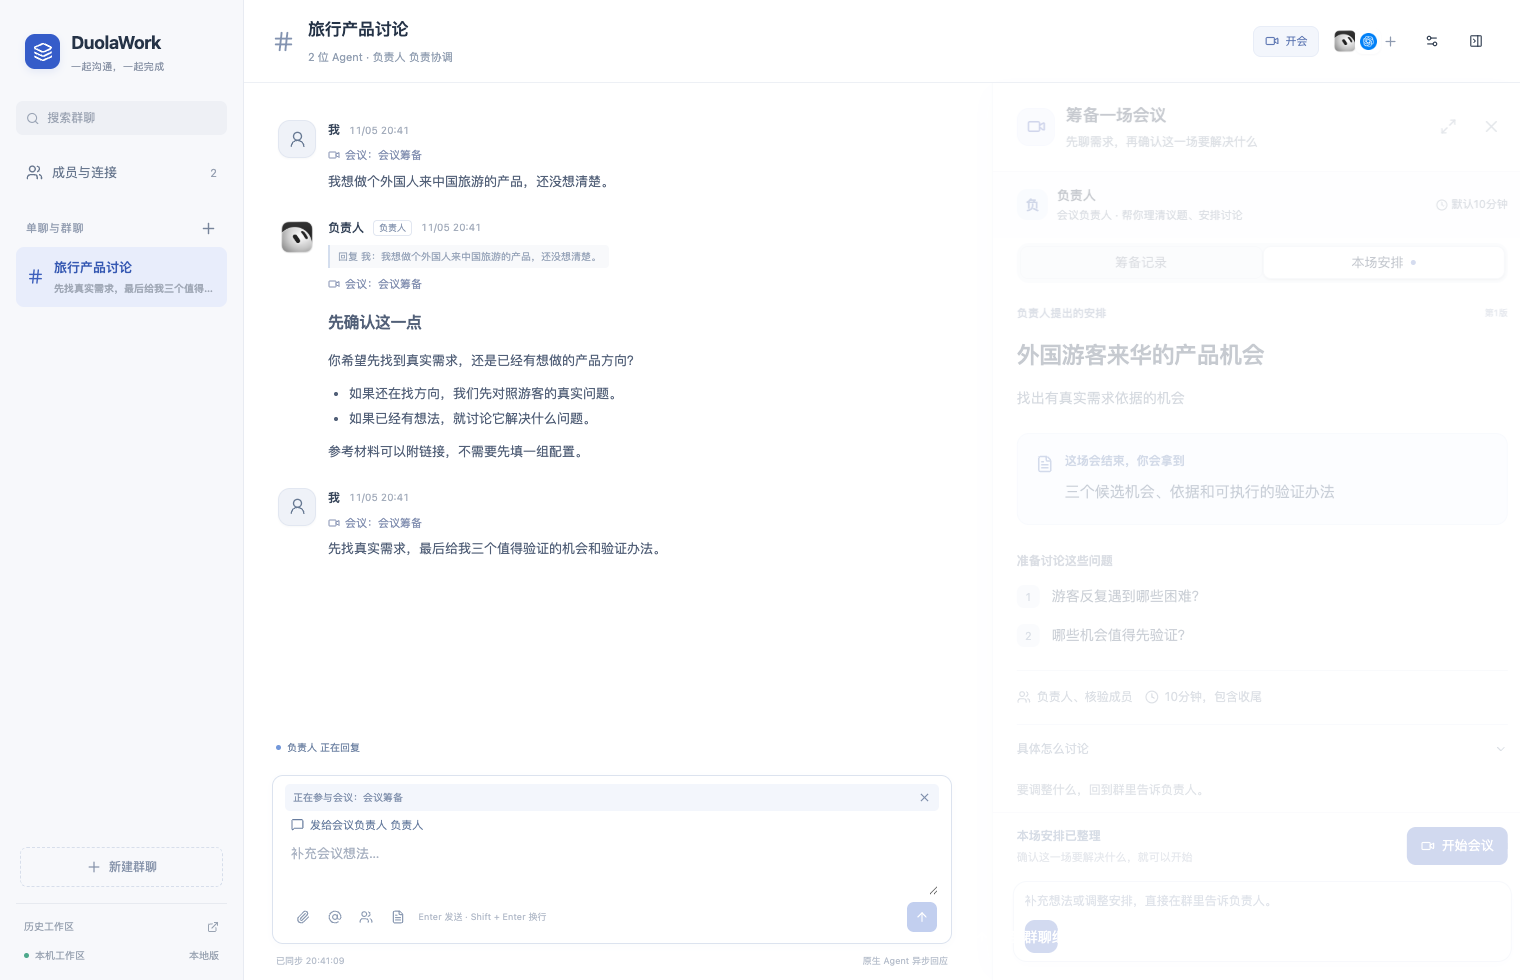
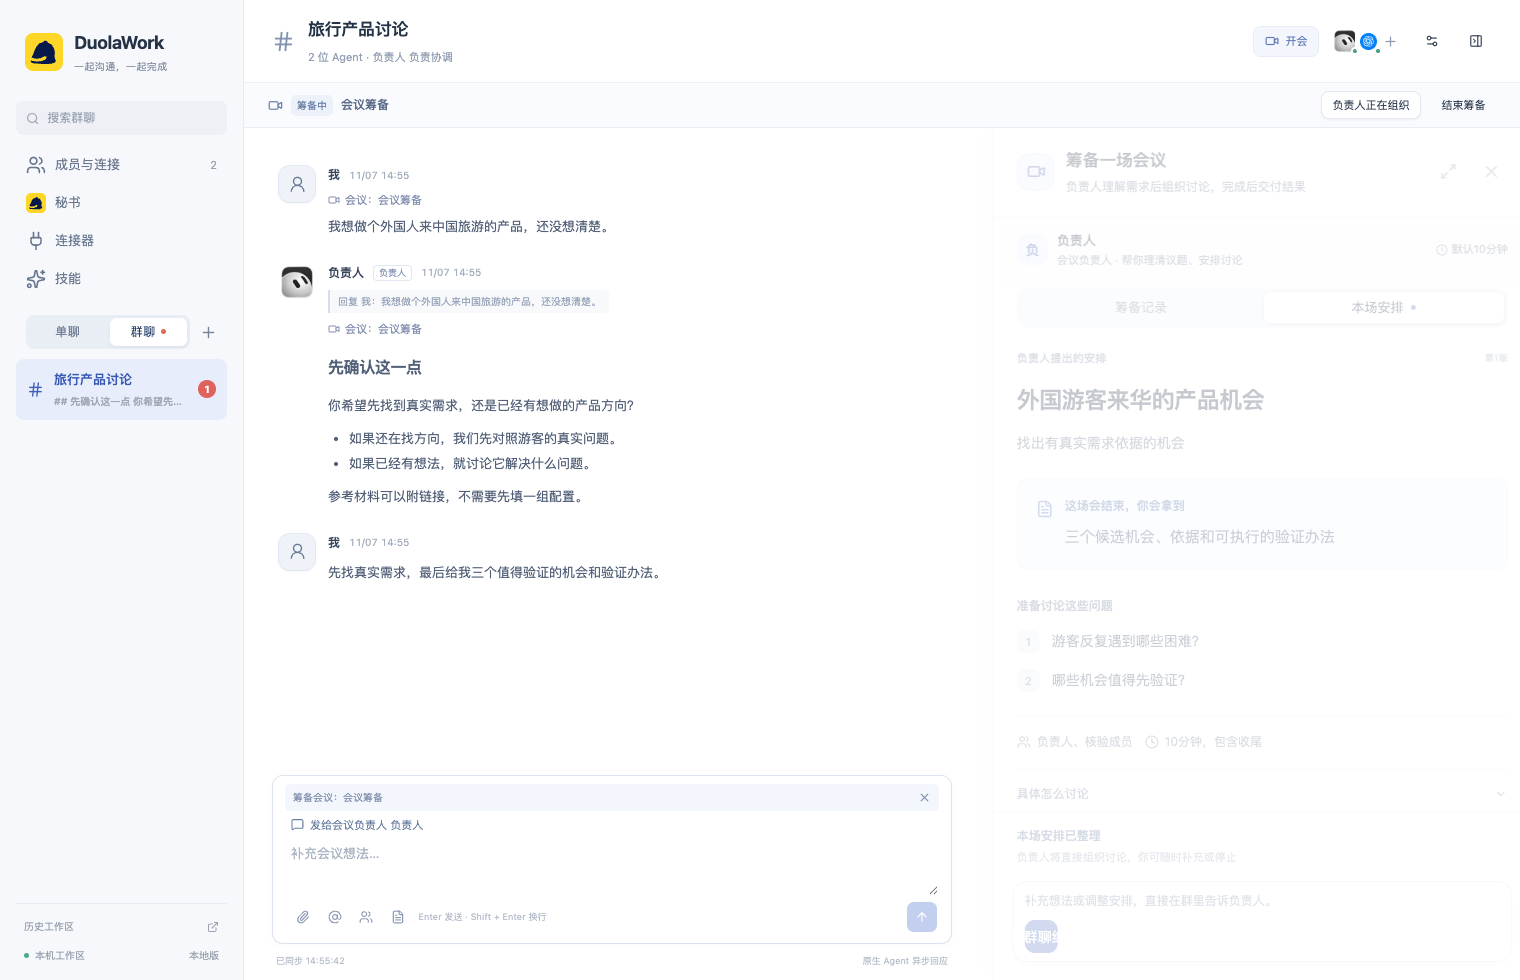
feat: make meeting stages flexible and preserve private review and summary history

diff --git a/ui/conversation/MeetingPanel.jsx b/ui/conversation/MeetingPanel.jsx
@@ -111,7 +111,7 @@ export default function MeetingPanel({ initialId, channel, members, connections,
         <div className="meeting-result-actions"><Button variant="outline" onClick={async()=>{try{await navigator.clipboard.writeText(summary?.summary||m.summary);setCopied(true);}catch{setError('复制未成功，请重试。');}}}><Copy size={14}/>{copied?'已复制':'复制结果'}</Button>{ended&&<Button variant="ghost" disabled={busy||(m.revisionStatus==='requested'&&Date.parse(m.revisionExpiresAt)>clock)} onClick={()=>act('request_revision').catch(()=>{})}>{m.revisionStatus==='requested'&&Date.parse(m.revisionExpiresAt)>clock?'已交给负责人重新解释':'让负责人解释清楚'}</Button>}</div>
         <details className="meeting-record-details meeting-answers"><summary>按议题查看具体回答 <ChevronDown size={14}/></summary>{(summary?.answers||m.answers||[]).map((a,i)=><article key={i}><h4>{m.agenda?.find(x=>x.id===a.agendaId)?.title||'议题回应'}</h4><div className="meeting-richtext" dangerouslySetInnerHTML={html(a.body)}/>{a.dissent&&<p className="meeting-dissent">保留意见：{a.dissent}</p>}</article>)}</details>
       </>}
-      {ended&&!m?.summary&&<div className="meeting-empty-summary"><FileText size={22}/><strong>讨论记录已保存</strong><p>负责人纪要尚未完成，下面可以查看实际收到的意见。未将到时结束视为目标已经达成。</p></div>}
+      {ended&&!m?.summary&&<div className="meeting-empty-summary"><FileText size={22}/><strong>讨论记录已保存</strong><p>负责人纪要尚未完成，下面可以查看实际收到的意见。未将到时结束视为目标已经达成。</p><Button variant="outline" disabled={busy||(m.recoveryStatus==='requested'&&Date.parse(m.recoveryExpiresAt)>clock)} onClick={()=>act('retry_summary').catch(()=>{})}>{m.recoveryStatus==='requested'&&Date.parse(m.recoveryExpiresAt)>clock?'负责人正在补齐':'让负责人补齐总结'}</Button></div>}
       {!ended&&m?.version!==undefined&&<Button variant="outline" className="meeting-stop" disabled={busy} onClick={()=>act('stop').catch(()=>{})}><Pause size={14}/>结束本场会议</Button>}
       {!ended&&m?.version!==undefined&&<details className="meeting-adjust"><summary>调整本场安排 <ChevronDown size={13}/></summary><label>接续负责人<select aria-label="更换本场会议负责人" value={m.coordinatorId} onChange={e=>act('coordinator',{coordinatorId:e.target.value}).catch(()=>{})} disabled={busy}>{members.filter(x=>m.memberIds.includes(x.id)&&usable.some(u=>u.id===x.id)).map(x=><option key={x.id} value={x.id}>{x.name}</option>)}</select></label><Button variant="outline" disabled={busy} onClick={()=>act('extend',{durationSeconds:300}).catch(()=>{})}><Clock size={13}/>延长5分钟</Button><small>只调整本场，已有记录和群配置保留。</small></details>}
       <details className="meeting-record-details" open={ended&&!m?.summary}><summary>讨论与核验记录 <span>{opinions.length+reviews.length}条</span><ChevronDown size={14}/></summary>{opinions.map(r=><article key={r.id}><header><strong>{nameOf(members,r.authorId)}</strong><small>{r.publishedAt?'已公开':'独立意见 · 尚未公开'}{r.status==='late'?' · 迟到回应':''}</small></header><div className="meeting-richtext" dangerouslySetInnerHTML={html(r.body)}/>{r.changeReason&&<p>修改原因：{r.changeReason}</p>}{r.sources?.map((s,i)=><Source key={i} value={s}/>)}</article>)}{reviews.map(r=><article key={r.id}><header><strong>{nameOf(members,r.authorId)}</strong><small>具体核验</small></header><h4>{r.claim}</h4><p>{r.method}</p><div dangerouslySetInnerHTML={html(r.finding)}/>{r.sources?.map((s,i)=><Source key={i} value={s}/>)}</article>)}</details>
@@ -119,7 +119,7 @@ export default function MeetingPanel({ initialId, channel, members, connections,
       {!!priorResults.length&&<details className="meeting-record-details"><summary>之前的结果版本 <span>{priorResults.length}份</span><ChevronDown size={14}/></summary>{priorResults.map(r=><article key={r.id}><header><strong>{nameOf(members,r.authorId)} · 原稿</strong><small>{time(r.createdAt)}</small></header><div className="meeting-richtext" dangerouslySetInnerHTML={html(r.summary)}/></article>)}</details>}
       {historyCursor&&<Button variant="ghost" onClick={loadOlder}>查看更早记录</Button>}
       <section className="space-section meeting-todos"><h3>会后跟进 <Button size="sm" variant="outline" onClick={()=>onTodo?.(m)}>留下 Todo</Button></h3>{tasks.filter(t=>t.meetingIds?.includes(m.id)).map(t=><button className="space-related" key={t.id} onClick={()=>onTask?.(t)}><Check size={14}/>{t.title}<small>{t.status==='done'?'已完成':t.status==='blocked'?'受阻':'待跟进'}</small></button>)}{!tasks.some(t=>t.meetingIds?.includes(m.id))&&<p className="space-muted">有后续行动时，留在这里继续跟进。</p>}</section>
-      <footer className="meeting-record-footer"><Users size={13}/>{m?.memberIds?.length||0}位成员<span>·</span>{m?.wakeCount??'—'}次自动唤醒{ended&&<><span>·</span>{m.endReason==='deadline'?'达到时限':m.endReason==='stopped'?'用户停止':m.endReason==='completed'?'负责人已交付':m.endReason||'已归档'}</>}</footer>
+      {m?.judgmentLabel&&<p className="space-muted">{m.judgmentLabel}</p>}<footer className="meeting-record-footer"><Users size={13}/>{m?.memberIds?.length||0}位成员<span>·</span>{m?.wakeCount??'—'}次自动唤醒{ended&&<><span>·</span>{m.endReason==='deadline'?'达到时限':m.endReason==='stopped'?'用户停止':m.endReason==='completed'?'负责人已交付':m.endReason||'已归档'}</>}</footer>
     </div>}
   </aside>;
 }

diff --git a/ui/conversation/App.jsx b/ui/conversation/App.jsx
@@ -347,6 +347,11 @@ export default function App() {
       .sort((a, b) => a.number - b.number),
     draft = drafts[current] || "";
   const allSelected = mentionAll;
+  useEffect(()=>{
+    if(snapshot?.channel.id!==current)return;
+    const closed=snapshot.meetings?.find(m=>m.id===meetingScopes[current]&&['ended','closed'].includes(m.status));
+    if(closed)setMeetingScopes(old=>old[current]===closed.id?{...old,[current]:null}:old);
+  },[snapshot,current,meetingScopes]);
   const addressedMembers = mentions;
   const recipients = channel ? messageRecipients(channel, { owner: true, mentions: addressedMembers, mentionAll: allSelected }) : [];
   const pendingActivity = pendingMemberActivity(snapshot?.activity?.filter(t=>!t.deliveryReview), snapshot?.notifications, codingStatus.members);
